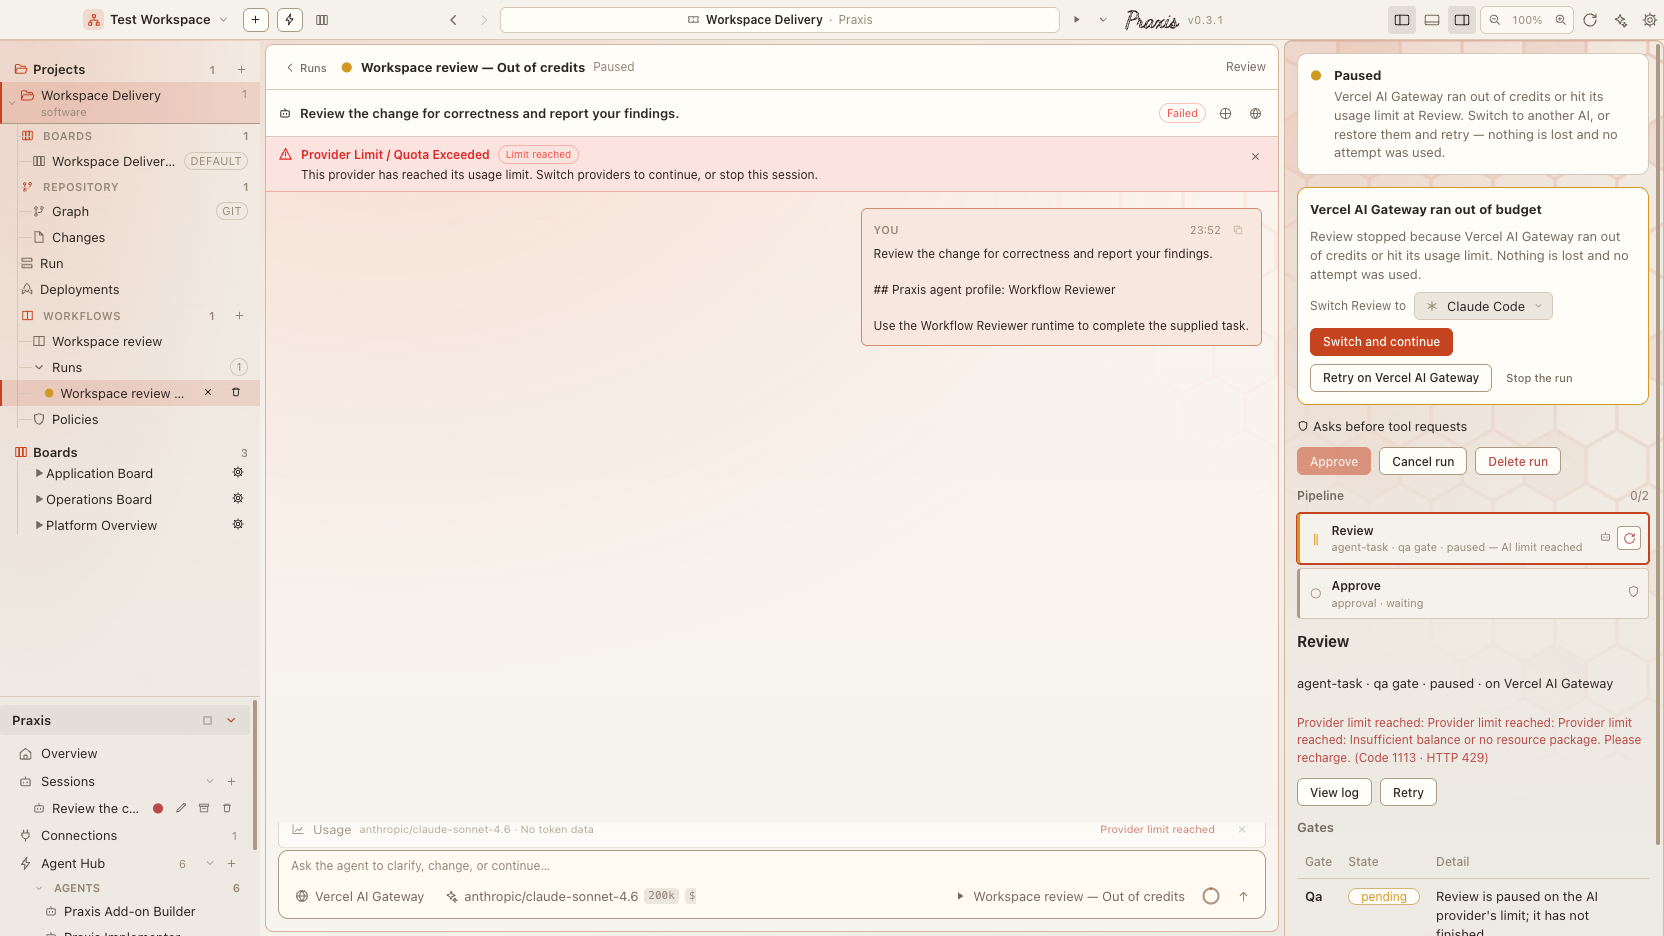
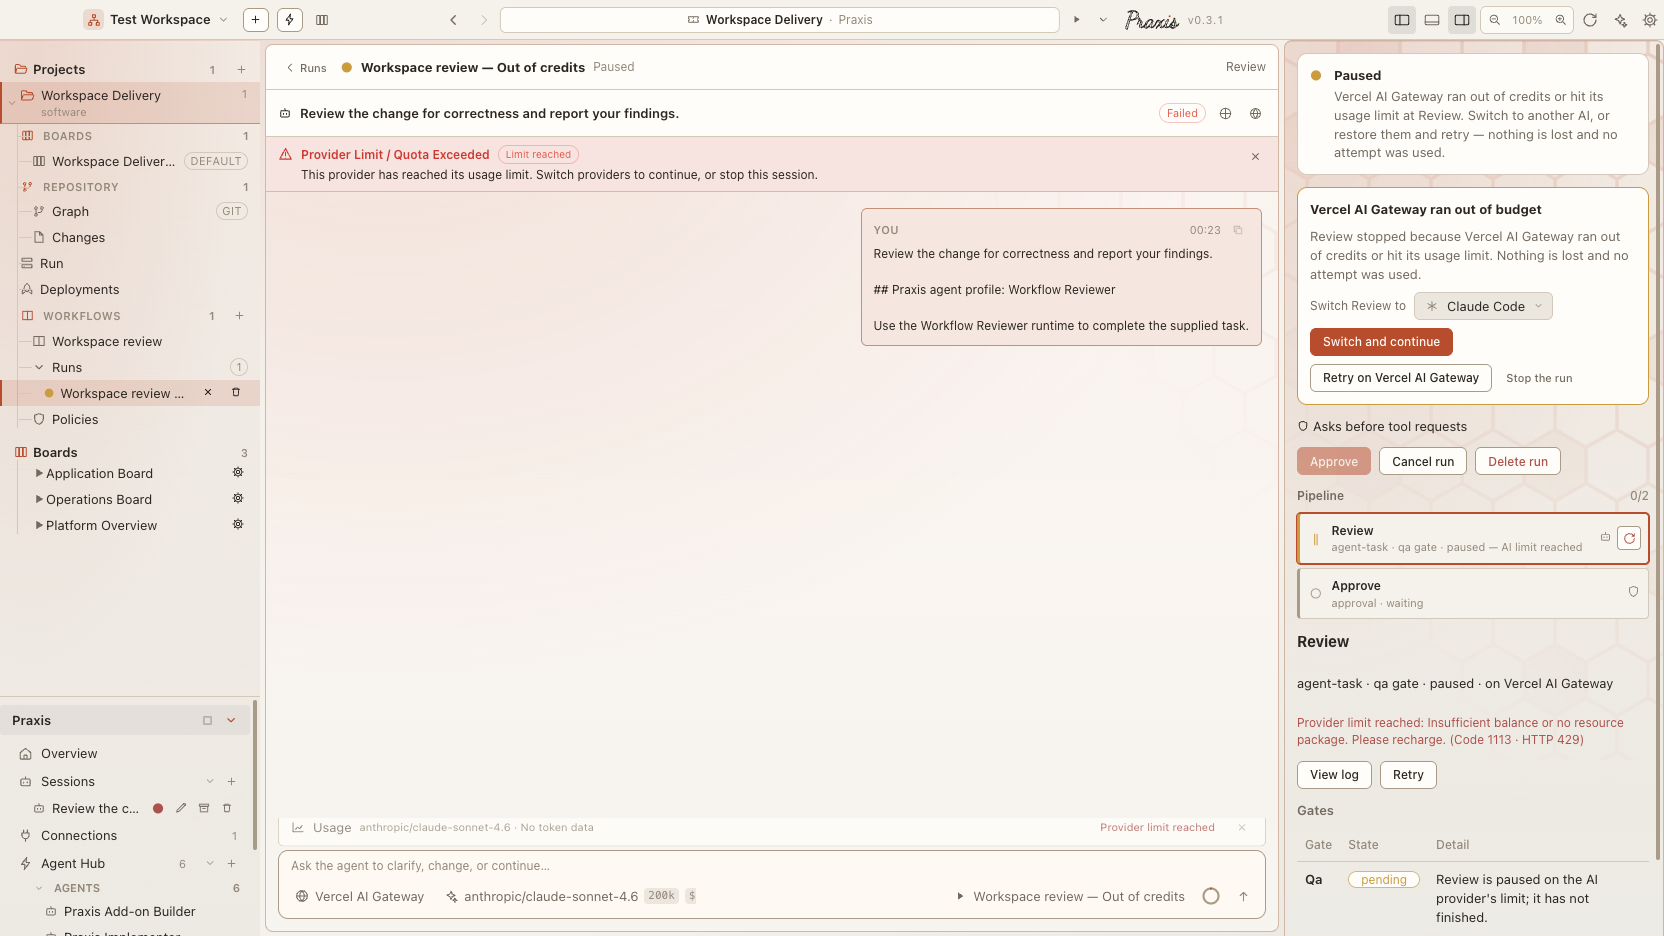
WIP: save changes before starting a run

diff --git a/packages/core/src/host/mobileProtocol.ts b/packages/core/src/host/mobileProtocol.ts
@@ -11,7 +11,7 @@ export type MobileCapability = 'view' | 'execute' | 'approve';
  * treats a missing operation (an older desktop) as "unsupported", not an error.
  */
 export const MOBILE_HOST_SURFACE_REVISION = 4 as const;
-export type MobileReadOperation = 'hosts.list' | 'host.info' | 'projects.snapshot' | 'work.list' | 'sessions.list' | 'sessions.get' | 'sessions.usage' | 'workflows.list' | 'workflowRuns.get' | 'changes.get' | 'attention.list' | 'providers.list' | 'models.list' | 'access.get';
+export type MobileReadOperation = 'hosts.list' | 'host.info' | 'projects.snapshot' | 'work.list' | 'sessions.list' | 'sessions.get' | 'sessions.usage' | 'workflows.list' | 'workflowRuns.list' | 'workflowRuns.get' | 'changes.get' | 'attention.list' | 'providers.list' | 'models.list' | 'access.get';
 export type MobileCommandOperation = 'sessions.create' | 'sessions.continue' | 'sessions.cancel' | 'sessions.configure' | 'workflowRuns.start' | 'workflowRuns.cancel' | 'workflowRuns.retryStage' | 'permissions.respond' | 'workflowGates.approve';
 export type MobileOperation = MobileReadOperation | MobileCommandOperation;
 export interface MobileCaller { deviceId: string; subject?: string; capabilities: readonly MobileCapability[]; }
@@ -273,11 +273,60 @@ export interface MobileSessionSnapshot extends MobileSessionSummary {
 export type MobileSessionEvent =
   | { type: 'session.snapshot'; snapshot: MobileSessionSnapshot }
   | { type: 'session.removed'; sessionId: string; sessionKey: string };
+
+/** How a stage stands, for the phone's step list: the desktop monitor's lane, not a raw outcome. */
+export type MobileRunStageLane = 'idle' | 'ready' | 'running' | 'done' | 'failed' | 'skipped' | 'awaiting' | 'paused';
+export interface MobileRunStage {
+  nodeId: string;
+  name: string;
+  /** 'agent-task' | 'check' | 'approval' | 'deployment' | 'join'. */
+  type: string;
+  lane: MobileRunStageLane;
+  attempts: number;
+  /** The stage's session (agent stages), so the phone can show its conversation. */
+  sessionId?: string;
+  sessionKey?: string;
+  /** The AI that ran the latest attempt, else the one it is set to use. */
+  provider?: string;
+  lastError?: string;
+  /** Stopped without a verdict: the AI ran out of budget, or the stage's tooling could not run. */
+  pause?: 'provider-limit' | 'environment';
+}
+/**
+ * A workflow run as the phone shows it (`workflowRuns.list`, `run.snapshot`): the steps and
+ * where the run is, without the desktop monitor's graph, gates or event log.
+ */
+export interface MobileRunSnapshot {
+  runId: string;
+  projectId: string;
+  workflowName: string;
+  /** 'running' | 'awaiting-approval' | 'succeeded' | 'failed' | 'cancelled'. */
+  status: string;
+  paused: boolean;
+  /** One sentence: why the run is where it is. */
+  explanation: string;
+  startedAt: string;
+  endedAt?: string;
+  issueKey?: string;
+  /** The run's own AI; a stage may use another. */
+  aiProvider?: string;
+  aiModel?: string;
+  /** The stage the run is at — running, waiting on a person, paused, or the one it ended on. */
+  currentNodeId?: string;
+  stages: readonly MobileRunStage[];
+  /** A person can approve the run's gate now. */
+  canApprove: boolean;
+  /** Host event sequence this snapshot is current as of; the higher one wins. */
+  sequence: number;
+}
+export type MobileRunEvent =
+  | { type: 'run.snapshot'; run: MobileRunSnapshot }
+  | { type: 'run.removed'; runId: string };
 const COMMAND_ID = /^[A-Za-z0-9][A-Za-z0-9._:-]{7,127}$/;
 const DEVICE_ID = /^[A-Za-z0-9][A-Za-z0-9._:-]{2,127}$/;
 const ISO_DATE = /^\d{4}-\d{2}-\d{2}T\d{2}:\d{2}:\d{2}\.\d{3}Z$/;
 const CAPABILITY_BY_OPERATION: Record<MobileOperation, MobileCapability> = {
-  'hosts.list':'view','host.info':'view','sessions.usage':'view','providers.list':'view','models.list':'view','access.get':'view','projects.snapshot':'view','work.list':'view','sessions.list':'view','sessions.get':'view','workflows.list':'view','workflowRuns.get':'view','changes.get':'view','attention.list':'view',
+  'hosts.list':'view','host.info':'view','sessions.usage':'view','providers.list':'view','models.list':'view','access.get':'view','projects.snapshot':'view','work.list':'view','sessions.list':'view','sessions.get':'view','workflows.list':'view','workflowRuns.list':'view','workflowRuns.get':'view','changes.get':'view','attention.list':'view',
   'sessions.create':'execute','sessions.continue':'execute','sessions.configure':'execute','sessions.cancel':'execute','workflowRuns.start':'execute','workflowRuns.cancel':'execute','workflowRuns.retryStage':'execute','permissions.respond':'approve','workflowGates.approve':'approve',
 };
 export function mobileCapabilityFor(operation: MobileOperation): MobileCapability { return CAPABILITY_BY_OPERATION[operation]; }

diff --git a/packages/core/src/ai/acp/acpAgentHost.test.ts b/packages/core/src/ai/acp/acpAgentHost.test.ts
@@ -1,0 +1,74 @@
+import test from 'node:test';
+import assert from 'node:assert/strict';
+import { AcpAgentHost } from './acpAgentHost';
+
+/**
+ * A workflow stage that hits a usage limit is retried on another AI under the same
+ * session key about half a second later — sooner than the failed attempt's client can
+ * finish shutting down. The failed attempt's cleanup must not then forget the new one.
+ * (A real Governed delivery run: Implement failed on Codex, restarted on Claude Code,
+ * and every Claude update was dropped from then on while the agent kept working.)
+ */
+
+interface FakeTask {
+  issueKey: string;
+  client: { shutdown: () => Promise<void> };
+  pendingPermissions: [];
+  allowPermissionsForTask: boolean;
+  messageBuffer: string;
+}
+
+interface HostInternals {
+  activeTasks: Map<string, FakeTask>;
+  cleanupTask(issueKey: string, task?: FakeTask): Promise<void>;
+}
+
+function host(): { host: AcpAgentHost; internals: HostInternals } {
+  const instance = new AcpAgentHost({} as never, { appendLine: () => {} } as never);
+  return { host: instance, internals: instance as unknown as HostInternals };
+}
+
+function task(issueKey: string, shutdown: () => Promise<void> = async () => {}): FakeTask {
+  return { issueKey, client: { shutdown }, pendingPermissions: [], allowPermissionsForTask: false, messageBuffer: '' };
+}
+
+test('a failed attempt that finishes shutting down late does not forget the retry that replaced it', async () => {
+  const { host: agentHost, internals } = host();
+  const key = 'WF-8B14FE21-implement';
+
+  let finishShutdown!: () => void;
+  const failedAttempt = task(key, () => new Promise<void>(resolve => (finishShutdown = resolve)));
+  internals.activeTasks.set(key, failedAttempt);
+
+  // The failed attempt starts cleaning up; its client is slow to close.
+  const cleanup = internals.cleanupTask(key, failedAttempt);
+
+  // Meanwhile the stage is retried on another AI under the same key.
+  const retry = task(key);
+  internals.activeTasks.set(key, retry);
+
+  finishShutdown();
+  await cleanup;
+
+  assert.equal(agentHost.hasActiveTask(key), true, 'the retry is still the active task');
+  assert.equal(internals.activeTasks.get(key), retry);
+});
+
+test('cleaning up the task that is still registered forgets it', async () => {
+  const { host: agentHost, internals } = host();
+  const key = 'WF-1-plan';
+  let shutdowns = 0;
+  const only = task(key, async () => {
+    shutdowns += 1;
+  });
+  internals.activeTasks.set(key, only);
+
+  await internals.cleanupTask(key, only);
+
+  assert.equal(shutdowns, 1);
+  assert.equal(agentHost.hasActiveTask(key), false);
+  // With no task named, the registered one is cleaned up (the stop/abort path).
+  internals.activeTasks.set(key, only);
+  await internals.cleanupTask(key);
+  assert.equal(agentHost.hasActiveTask(key), false);
+});

diff --git a/packages/core/src/ai/acp/acpAgentHost.ts b/packages/core/src/ai/acp/acpAgentHost.ts
@@ -658,7 +658,7 @@ export class AcpAgentHost {
       })
       .finally(() => {
         clearTimeout(timeoutHandle);
-        void this.cleanupTask(issue.key);
+        void this.cleanupTask(issue.key, task);
       });
 
     return sessionId;
@@ -800,7 +800,7 @@ export class AcpAgentHost {
       const limitNotice = limitCandidate ? extractProviderLimitMessage(limitCandidate) : undefined;
       this.sessionManager.updateAgentState(issueKey, 'failed', limitNotice ?? text);
       this.appendEvent(issueKey, evt('error', limitNotice ?? text));
-    }).finally(() => void this.cleanupTask(issueKey));
+    }).finally(() => void this.cleanupTask(issueKey, task));
   }
 
   public respondToPermission(issueKey: string, decision: PermissionDecision): void {
@@ -901,15 +901,28 @@ export class AcpAgentHost {
       this.appendEvent(issueKey, options.event);
     }
     this.logger.appendLine(options.logLine);
-    await this.cleanupTask(issueKey);
+    await this.cleanupTask(issueKey, task);
   }
 
-  private async cleanupTask(issueKey: string): Promise<void> {
-    const task = this.activeTasks.get(issueKey);
+  /**
+   * Shuts down `task` and forgets it — but only forgets the entry if it is still `task`.
+   *
+   * A workflow stage retries under the same session key (a switch to another AI after a
+   * usage limit starts the next attempt ~0.5s after the last one failed), and shutting a
+   * client down can take longer than that (`session/close`, then waiting for the child to
+   * exit). Deleting by key alone removed the *new* attempt's entry: its updates were then
+   * dropped as "no active task", the stage never recorded progress or completion, and
+   * even its timeout found nothing to stop — a run that looked frozen forever while the
+   * agent kept working in its worktree.
+   */
+  private async cleanupTask(issueKey: string, task: ActiveAcpTask | undefined = this.activeTasks.get(issueKey)): Promise<void> {
     if (!task) {
       return;
     }
     await task.client.shutdown();
+    if (this.activeTasks.get(issueKey) !== task) {
+      return;
+    }
     this.activeTasks.delete(issueKey);
     this.emitActiveTaskChange(issueKey);
   }

diff --git a/packages/core/src/ai/providerLimitError.ts b/packages/core/src/ai/providerLimitError.ts
@@ -102,6 +102,9 @@ export function extractProviderLimitMessage(errorOrMessage: unknown): string {
 
   // Strip generic transport/RPC wrappers like "The stage session failed: ", "RequestError: ", "Internal error: "
   let cleaned = raw.replace(/^(?:The stage session failed:\s*)?(?:RequestError:\s*)?(?:Internal error:\s*)?(?:Provider error:\s*)?(?:Gateway returned \d+:\s*)?/i, '').trim();
+  // A notice passes through several layers (agent host → session → stage), each of which
+  // extracts again; without this each added its own prefix ("Provider limit reached: " ×4).
+  cleaned = cleaned.replace(/^(?:Provider limit reached:\s*)+/i, '').trim();
 
   // If cleaned is or contains JSON, extract the inner message
   try {

diff --git a/packages/core/src/ai/providerLimitError.test.ts b/packages/core/src/ai/providerLimitError.test.ts
@@ -155,3 +155,9 @@ test('withAgentErrorDetail promotes the agent\'s reason from data.message to the
   assert.equal(plain.message, 'Internal error');
   assert.equal(withAgentErrorDetail('boom'), 'boom');
 });
+
+test('extractProviderLimitMessage is idempotent — re-extracting never stacks the prefix', () => {
+  const once = extractProviderLimitMessage("You've hit your usage limit. Try again at Sep 26th, 2026 1:00 PM.");
+  assert.equal(once, "Provider limit reached: You've hit your usage limit. Try again at Sep 26th, 2026 1:00 PM.");
+  assert.equal(extractProviderLimitMessage(extractProviderLimitMessage(once)), once);
+});

diff --git a/apps/praxis-desktop/docs/plans/features/fx-bf-035-multi-ai-session-orchestration/feature.md b/apps/praxis-desktop/docs/plans/features/fx-bf-035-multi-ai-session-orchestration/feature.md
@@ -89,3 +89,19 @@ Status: Failed · Duration: 1m 22s
 - ⏳ Security scan: pending
 
 Required stage "plan" failed.
+
+**PRX-F35** — 2026-09-23T23:26:42.654Z
+**Workflow run cancelled: Governed delivery — FX-BF-035: Multi-AI session orchestration across Claude, Codex and Copilot**
+
+Status: Cancelled · Duration: 30m 43s
+
+- ✅ Plan: succeeded
+- ❌ Implement: failed
+- ⏭ Praxis Test contracts: cancelled
+- ⏭ Review: cancelled
+- ⏭ Install dependencies: cancelled
+- ⏭ Build: cancelled
+- ⏭ QA: cancelled
+- ⏭ Security scan: cancelled
+
+Deleted by the user.
